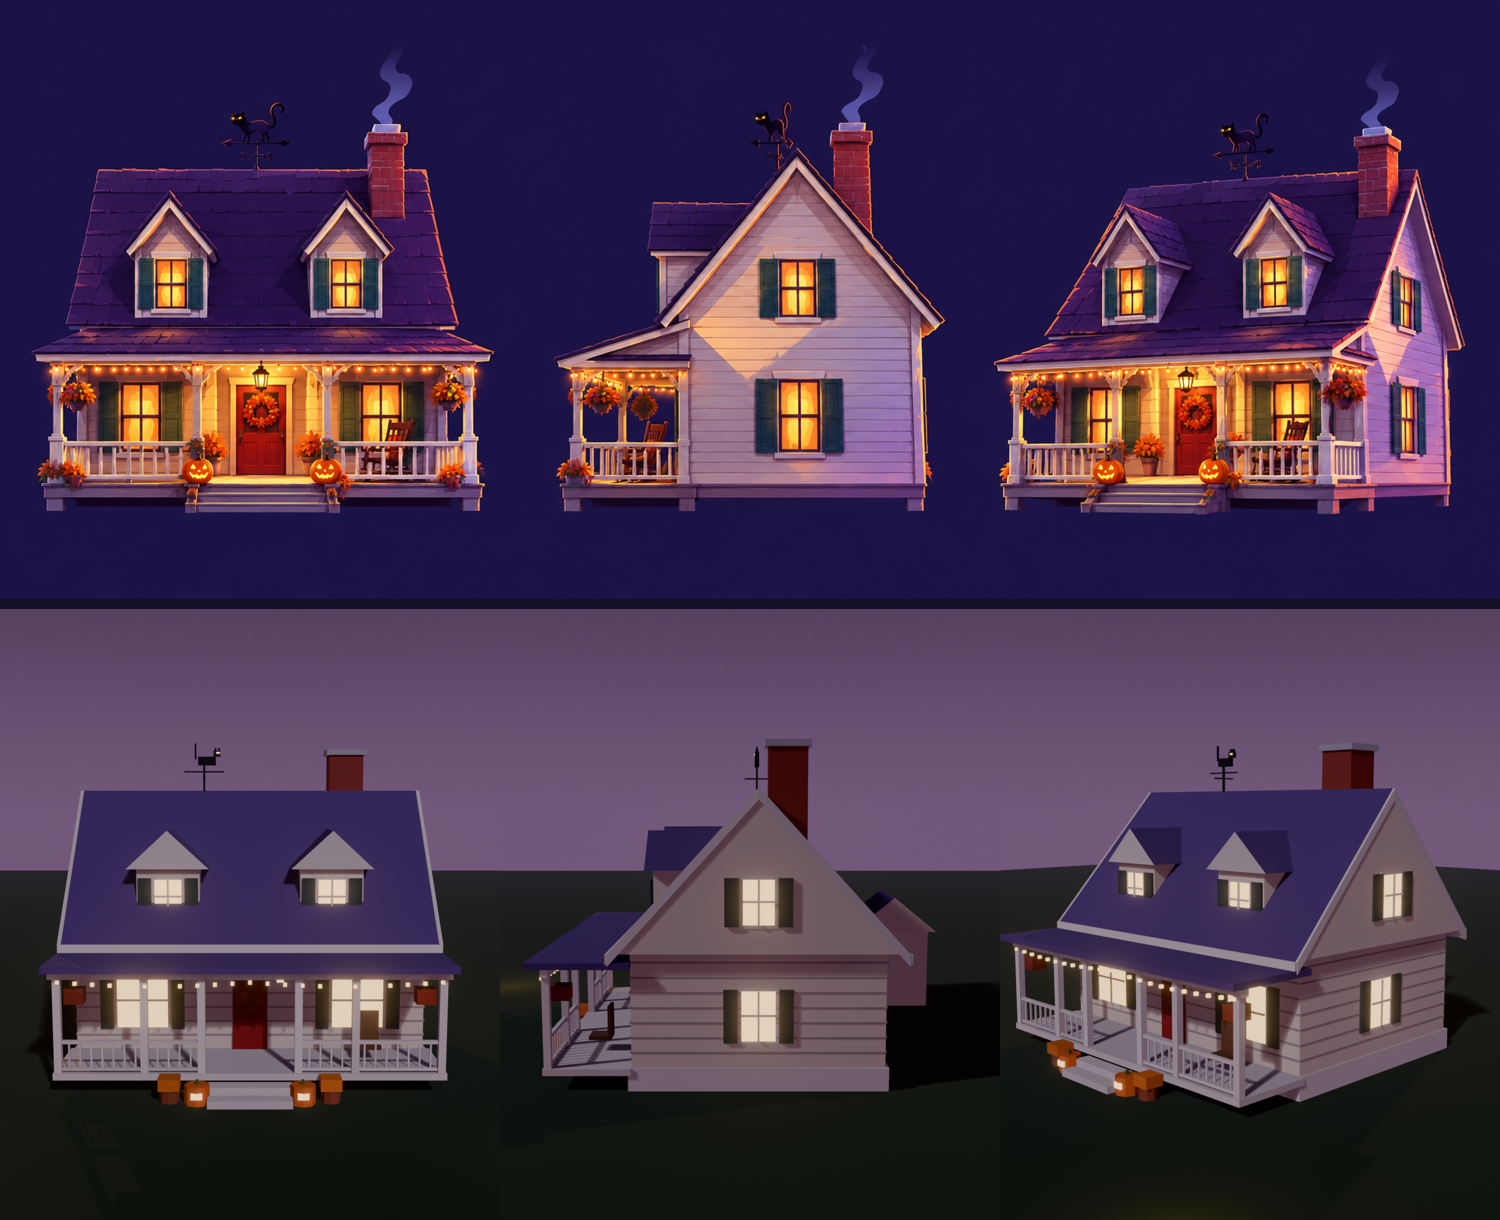
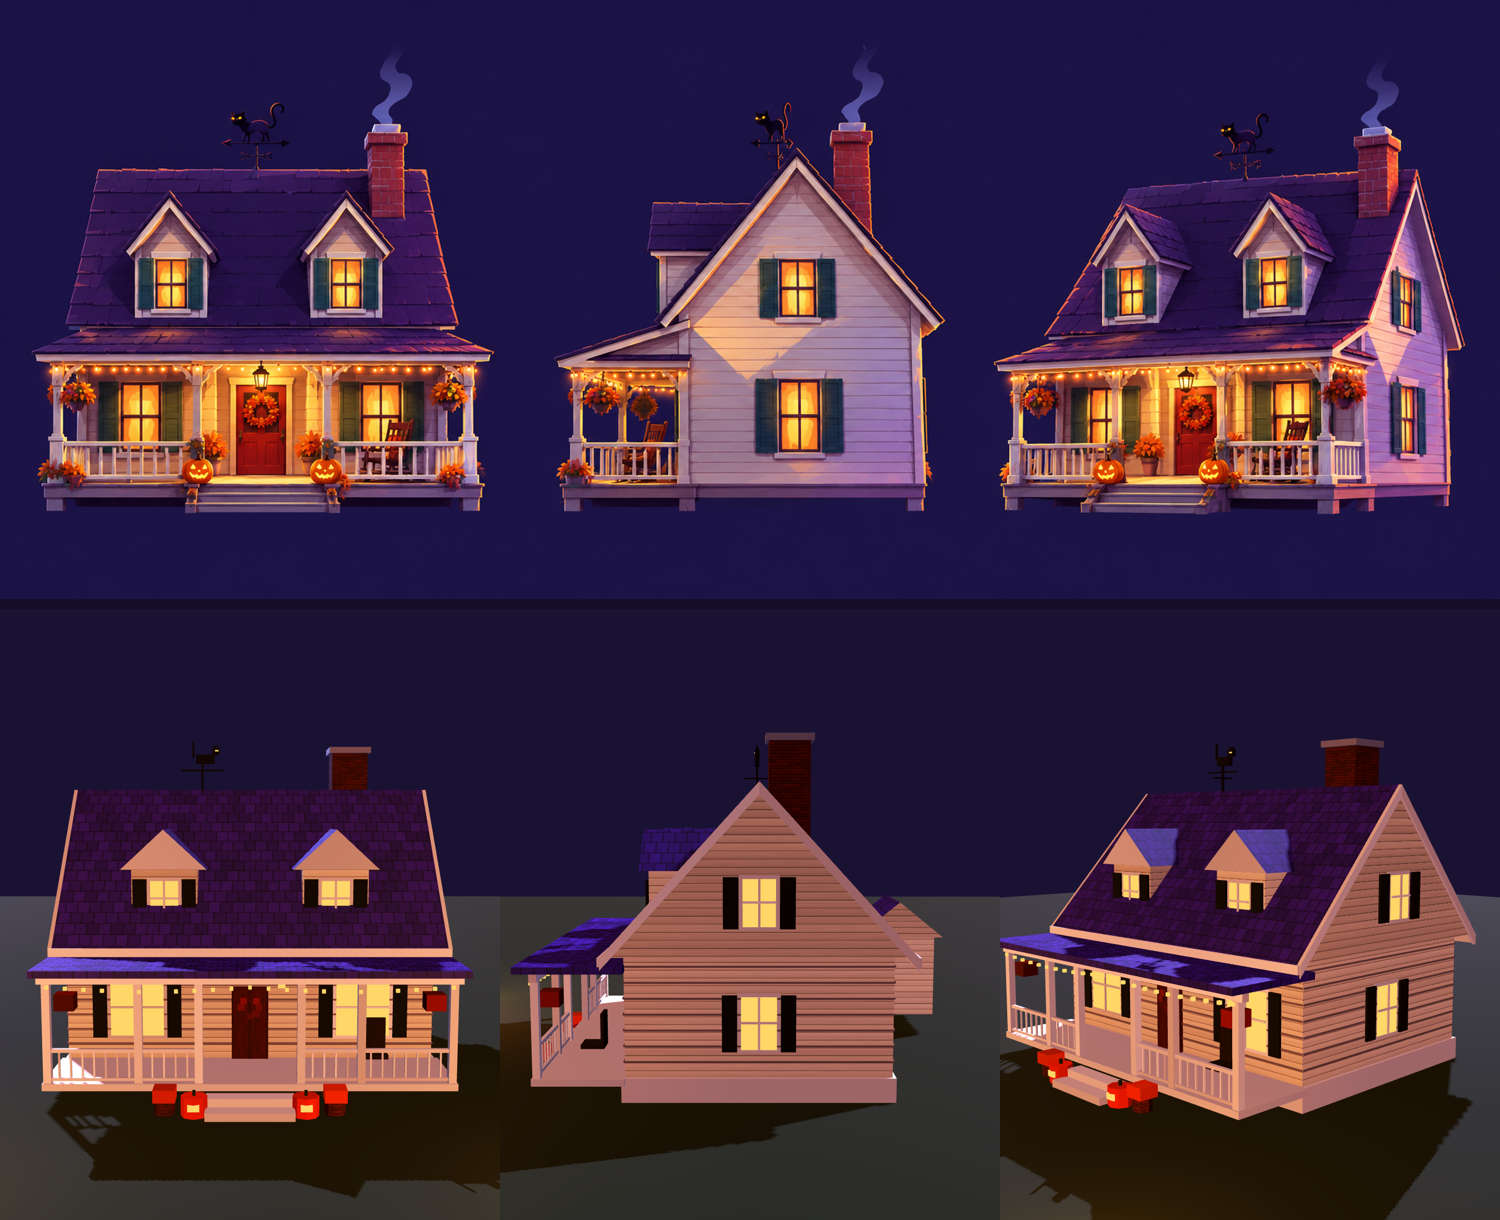
Chapel and house surfaces drawn on the phone: stone blocks, slate, clapboard, brick
Each face carries what it's made of in its vertex colour's alpha (landmarks.SURFACE); the new
landmark shader draws stone courses with mortar, staggered slates, overlapping clapboards, brick
and wood over the stone and wood textures every hole already loads, so there's no image to
download. The rose window lights red with the opening's light sweep (LAMP_STAINED). The barn and
mansion keep their material. tests/landmark_view.gd previews one landmark in the game's renderer.

Claude-Session: https://claude.ai/code/session_01VAUjUguVX6tbdgmz3FqzWB

diff --git a/golf/tools/landmarks.py b/golf/tools/landmarks.py
@@ -24,10 +24,19 @@ GLOW = (1.0, 0.68, 0.28)
 STAINED = (0.95, 0.18, 0.32)     # a chapel's rose window: red-violet glass lit from inside
 
 
-class Parts:
-    """One bmesh for the painted body and one for the glowing bits, built up part by part."""
+# Surface kinds for the patterned landmark material (game/shaders/landmark.gdshader): the vertex colour's
+# alpha says what a face is made of, and the shader draws it there (stone blocks, slates, clapboards,
+# brick, wood planks) over textures every hole already loads. No image of its own to download.
+SURFACE = {"stone": 0.9, "slate": 0.8, "clap": 0.7, "brick": 0.6, "wood": 0.5, "plain": 0.4}
 
-    def __init__(self, seed=1):
+
+class Parts:
+    """One bmesh for the painted body and one for the glowing bits, built up part by part. With
+    surfaces=True each face carries what it's made of (SURFACE, from the colour's kind in KIND_OF or a
+    part's own kind=) for the patterned material."""
+
+    def __init__(self, seed=1, surfaces=False):
+        self.surfaces = surfaces
         self.body = bmesh.new()
         self.glow = bmesh.new()
         self.rng = random.Random(seed)
@@ -36,20 +45,23 @@ class Parts:
         self.stain = bmesh.new()
         self.slay = props.vcol_layer(self.stain)
 
-    def _paint(self, bm, lay, faces, color, jitter=0.06):
+    def _paint(self, bm, lay, faces, color, jitter=0.06, kind=None):
+        a = 1.0
+        if self.surfaces and bm is self.body:
+            a = SURFACE[kind or KIND_OF.get(tuple(color), "plain")]
         for f in faces:
             k = 1.0 + self.rng.uniform(-jitter, jitter)
             c = tuple(min(1.0, v * k) for v in color)
             for lp in f.loops:
-                lp[lay] = (*c, 1.0)
+                lp[lay] = (*c, a)
 
-    def box(self, center, size, color, glow=False, jitter=0.06):
+    def box(self, center, size, color, glow=False, jitter=0.06, kind=None):
         bm = self.glow if glow else self.body
         ret = bmesh.ops.create_cube(bm, size=1.0)
         bmesh.ops.scale(bm, vec=Vector(size), verts=ret["verts"])
         bmesh.ops.translate(bm, vec=Vector(center), verts=ret["verts"])
         faces = list({f for v in ret["verts"] for f in v.link_faces})
-        self._paint(bm, self.glay if glow else self.lay, faces, color, jitter)
+        self._paint(bm, self.glay if glow else self.lay, faces, color, jitter, kind)
 
     def prism(self, profile, y0, y1, color, caps_color=None):
         """A shape extruded along y from y0 to y1; profile: [(x, z), ...] counter-clockwise seen from -y."""
@@ -86,7 +98,8 @@ class Parts:
     def finish(self, col, name, pos, rot_z, scale):
         m = Matrix.Translation(Vector(pos)) @ Matrix.Rotation(rot_z, 4, "Z") @ Matrix.Scale(scale, 4)
         obs = []
-        for bm, mat, suffix in ((self.body, props.material("LandmarkBody", 0.85), ""),
+        body = props.material("LandmarkSurface" if self.surfaces else "LandmarkBody", 0.85)
+        for bm, mat, suffix in ((self.body, body, ""),
                                 (self.glow, props.material("LandmarkGlow", 0.6, emit=GLOW, strength=3.0), "_Glow"),
                                 (self.stain, props.material("LandmarkStained", 0.6, emit=STAINED, strength=2.5), "_Stained")):
             if not bm.faces:
@@ -276,9 +289,9 @@ def hedge(col, name, points, height_at, height=2.4, width=1.3):
     return boxes
 
 
-CHAPEL_STONE = (0.44, 0.43, 0.52)   # lavender-grey stone in the moonlight (concept: the Forgotten Chapel)
-QUOIN = (0.3, 0.3, 0.37)
-CHAPEL_ROOF = (0.36, 0.2, 0.52)     # purple slate
+CHAPEL_STONE = (0.58, 0.57, 0.68)   # lavender-grey stone in the moonlight (concept: the Forgotten Chapel)
+QUOIN = (0.42, 0.41, 0.5)
+CHAPEL_ROOF = (0.44, 0.26, 0.62)     # purple slate
 SLATE_LINE = (0.24, 0.13, 0.34)
 OAK = (0.36, 0.21, 0.1)
 LEAVES = (0.55, 0.16, 0.06)
@@ -337,7 +350,7 @@ def chapel(col, name, pos, rot_z=0.0, scale=1.0):
     tower on the front with an open belfry, a bell and a slate spire with an iron cross; a red rose
     window over the pointed door (ajar, candlelit), tall lit lancet windows, a broken wall and stones
     at its foot. ~8 m wide, 15 m long, 17 m to the cross; the front faces -y."""
-    p = Parts(seed=303)
+    p = Parts(seed=303, surfaces=True)
     W, L, H = 8.0, 13.0, 5.6
     hw = W / 2
     y0, y1 = -L / 2, L / 2
@@ -369,7 +382,7 @@ def chapel(col, name, pos, rot_z=0.0, scale=1.0):
                 continue
             shade = p.rng.choice((0.85, 1.12))
             p.box((sx * (hw + 0.02), yy, zz), (0.06, p.rng.uniform(0.6, 1.1), 0.36),
-                  tuple(c * shade for c in CHAPEL_STONE))
+                  tuple(c * shade for c in CHAPEL_STONE), kind="stone")
     # buttresses: darker stone piers between the windows and at the corners
     for yy in (y0 + 0.3, -2.0, 2.4, y1 - 0.3):
         for sx in (-1, 1):
@@ -489,7 +502,7 @@ def chapel(col, name, pos, rot_z=0.0, scale=1.0):
 HOUSE_SIDING = (0.86, 0.8, 0.67)     # warm cream clapboard (concept: the Homecoming House)
 CLAP_LINE = (0.62, 0.57, 0.5)
 POT = (0.5, 0.24, 0.13)
-HOUSE_ROOF = (0.3, 0.2, 0.4)         # dusky plum shingles
+HOUSE_ROOF = (0.4, 0.27, 0.54)         # dusky plum shingles
 SHUTTER = (0.1, 0.22, 0.2)
 RED_DOOR = (0.55, 0.07, 0.06)
 BRICK = (0.48, 0.2, 0.13)
@@ -519,7 +532,7 @@ def house(col, name, pos, rot_z=0.0, scale=1.0):
     porch across the front (white posts and rails, a string of lights, a lamp, a red door with a wreath,
     a jack-o'-lantern on each side of the steps, a rocking chair) and green-shuttered lit windows.
     ~12 m wide, 9 m deep, 10 m to the ridge; the front faces -y."""
-    p = Parts(seed=909)
+    p = Parts(seed=909, surfaces=True)
     W, D, H = 11.0, 7.5, 3.6
     hw, hd = W / 2, D / 2
     base = 0.7
@@ -614,3 +627,10 @@ def house(col, name, pos, rot_z=0.0, scale=1.0):
         p.box((x, -hd - PD + 0.5, eave - 0.8), (0.55, 0.55, 0.45), LEAVES, jitter=0.2)
     obs = p.finish(col, name, pos, rot_z, scale)
     return obs, [(hw + 0.6) * scale, (hd + PD + 1.2) * scale]
+
+
+KIND_OF = {
+    CHAPEL_STONE: "stone", QUOIN: "stone", CHAPEL_ROOF: "slate", SLATE_LINE: "slate", OAK: "wood",
+    HOUSE_SIDING: "clap", CLAP_LINE: "clap", HOUSE_ROOF: "slate", BRICK: "brick", RED_DOOR: "wood",
+    SHUTTER: "wood", POT: "brick",
+}

diff --git a/golf/tools/export_landmark.py b/golf/tools/export_landmark.py
@@ -1,0 +1,22 @@
+"""Export one landmark (tools/landmarks.py) on its own as a .glb, the way build_hole.py exports a hole
+(vertex colours as the active colour), for previewing it in the game (game/tests/landmark_view.gd).
+
+usage: python3 export_landmark.py <chapel|house|barn|mansion> <out.glb>
+"""
+import os
+import sys
+
+import bpy  # noqa: I001
+
+sys.path.insert(0, os.path.dirname(os.path.abspath(__file__)))
+import landmarks  # noqa: E402
+
+KIND, OUT = sys.argv[-2], sys.argv[-1]
+bpy.ops.wm.read_factory_settings(use_empty=True)
+getattr(landmarks, KIND)(bpy.context.scene.collection, KIND, (0, 0, 0), 0.0, 1.0)
+for me in bpy.data.meshes:
+    if "Col" in me.color_attributes:
+        me.color_attributes.active_color_name = "Col"
+        me.color_attributes.render_color_index = me.color_attributes.find("Col")
+bpy.ops.export_scene.gltf(filepath=OUT, export_format="GLB", export_lights=False, export_cameras=False,
+                          export_image_format="NONE", export_vertex_color="ACTIVE", export_all_vertex_colors=False)
